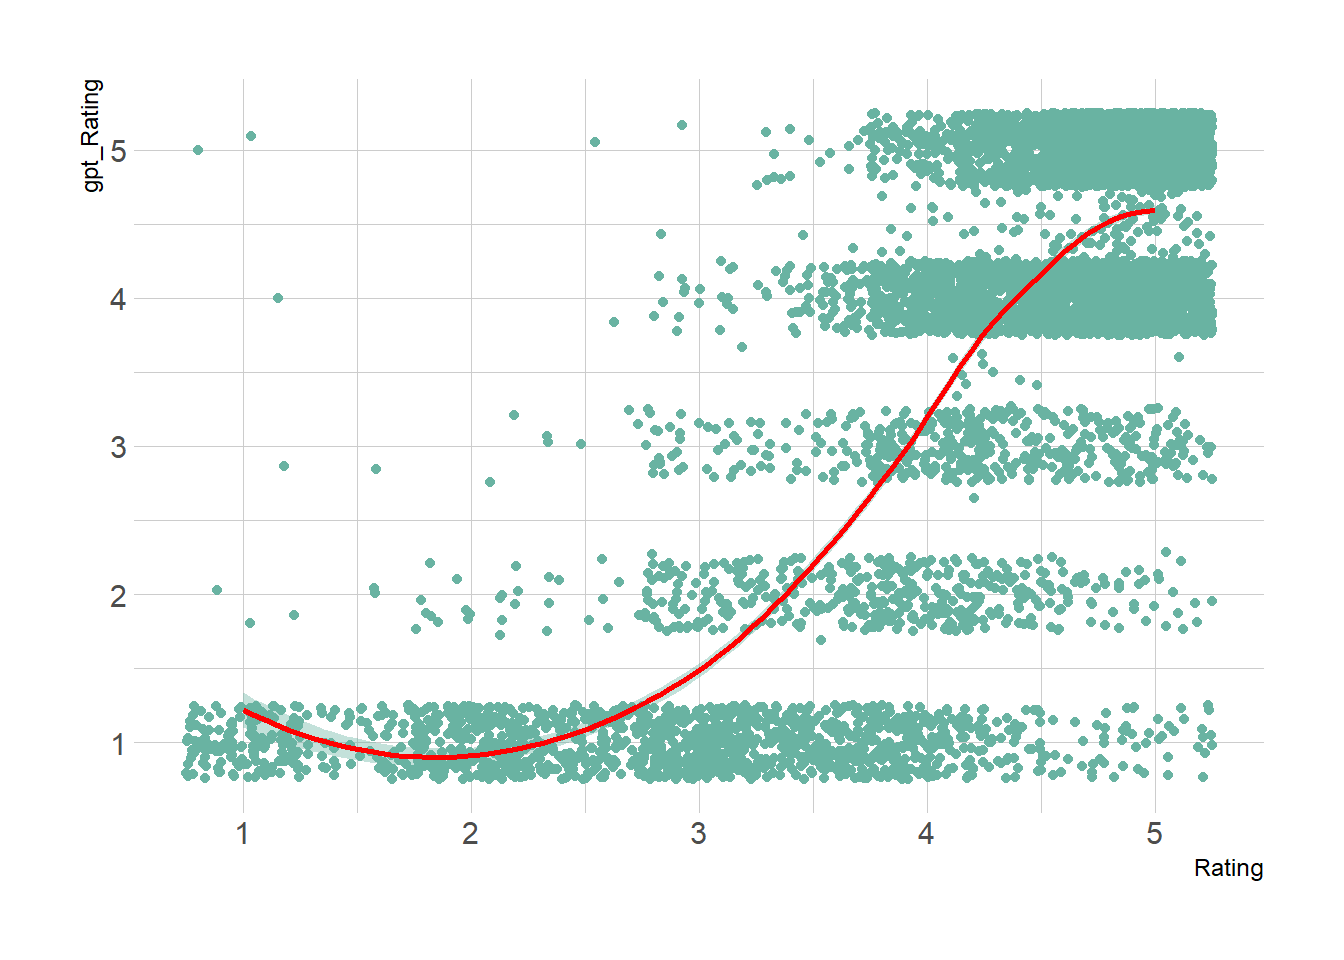
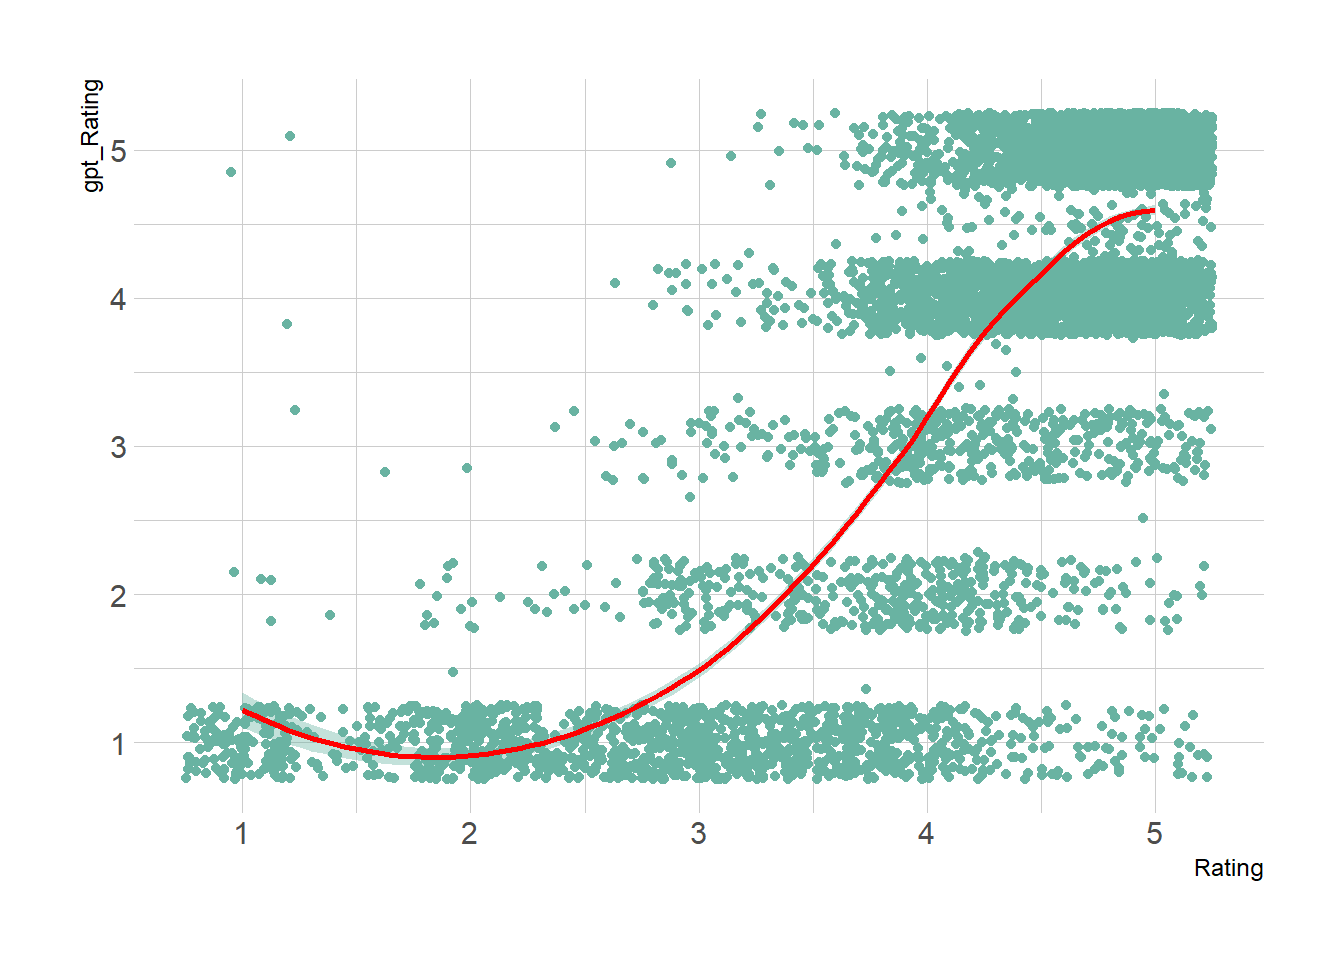
updates

diff --git a/docs/llm-assisted-text-analysis.html b/docs/llm-assisted-text-analysis.html
@@ -312,29 +312,29 @@ $ country       &lt;chr&gt; "American", "American", "American", "American", "Ame
 </thead>
 <tbody>
 <tr class="odd">
-<td style="text-align: left;">volvo</td>
-<td style="text-align: left;">Great family car</td>
-<td style="text-align: left;">Excellent family car with high reliability and decent curb appeal. I've had no major mechanical problems over a three year period, and the car still drives like new. Engine performance, ride and handling feel like new.</td>
-</tr>
-<tr class="even">
-<td style="text-align: left;">gmc</td>
-<td style="text-align: left;">Diamond in the rough</td>
-<td style="text-align: left;">Overall, the Jimmy is a good SUV. The main problem encountered with the car was front end repairs and numerous brake replacements. Good performance and average comfort. For the money not a bad buy.</td>
-</tr>
-<tr class="odd">
-<td style="text-align: left;">acura</td>
-<td style="text-align: left;">Sporty yet practical</td>
-<td style="text-align: left;">I love my 3.2TL. I am a Stay-at-home Mom with 1 child and feel like I am not compromising the Sport feel with too much practicality. Very peppy drive. Great Luxury vehicle for the $$.</td>
-</tr>
-<tr class="even">
-<td style="text-align: left;">acura</td>
-<td style="text-align: left;">A very good car</td>
-<td style="text-align: left;">This is a very good car. Good looking and reliable. I have this car for almost 5 years now and not a major problem occurs. It is not a performance car but it can run pretty quick. The handling is great. For everyday use, this is a perfect car.</td>
-</tr>
-<tr class="odd">
 <td style="text-align: left;">dodge</td>
-<td style="text-align: left;">Love that turbo-diesel</td>
-<td style="text-align: left;">Power and mileage are excellent. I can tow my Bronco with a full size camper in the bed, far more cheaply and much faster; than I can drive the Bronco by itself</td>
+<td style="text-align: left;">2003 Dakota SXT</td>
+<td style="text-align: left;">Great truck. Had over three years with no problems in 28,900 miles. Original brakes and tires. Decent gas mileage for a 2WD, approximately 19-21 MPG on the highway.</td>
+</tr>
+<tr class="even">
+<td style="text-align: left;">audi</td>
+<td style="text-align: left;">Audi Rocks</td>
+<td style="text-align: left;">Replaced my 2008 Honda Pilot. I had leased A4 in 2005 and was very happy with Audi as a brand. Great car/SUV. Love it, of course smaller than Honda Pilot but works for me.</td>
+</tr>
+<tr class="odd">
+<td style="text-align: left;">infiniti</td>
+<td style="text-align: left;">Best SUV Out There</td>
+<td style="text-align: left;">The title speaks for itself. I bought the QX56 for my lead-footed wife and she loves it so much she may just keep it (unlike the other 3 SUV's in the last 5 years). She has not one single complaint. Maybe I'll surprise her and buy her a new one if there is a re- design.</td>
+</tr>
+<tr class="even">
+<td style="text-align: left;">kia</td>
+<td style="text-align: left;">great</td>
+<td style="text-align: left;">bought new in 2002, even though i try not to buy the first model year for any vehicle.my mileage has been a consistent 28 mpg hwy with 6 large people and luggage.plenty of power.</td>
+</tr>
+<tr class="odd">
+<td style="text-align: left;">volkswagen</td>
+<td style="text-align: left;">Lemon</td>
+<td style="text-align: left;">Have had numerous problems for one year - delivered without enough transmission fluid - not alligned - resulted in requireing new tires - cruise control worked intermittantly - ABS light on - Engine Check Light on - cannot trust safety driving - stopped when engine check light on</td>
 </tr>
 </tbody>
 </table>
@@ -360,10 +360,11 @@ Note: for first time, need to add your open_api_ai key as an environmental varia
 <span id="cb4-8"><a href="#cb4-8" aria-hidden="true" tabindex="-1"></a><span class="co"># confirm chat is connected to API</span></span>
 <span id="cb4-9"><a href="#cb4-9" aria-hidden="true" tabindex="-1"></a>chat<span class="sc">$</span><span class="fu">chat</span>(<span class="st">"Is R a functional programming language?"</span>)</span></code><button title="Copy to Clipboard" class="code-copy-button"><i class="bi"></i></button></pre></div>
 <div class="cell-output cell-output-stdout">
-<pre><code>Yes, R supports functional programming. It allows functions to be treated as 
-first-class objects, enabling features like higher-order functions, closures, 
-and anonymous functions. However, R also supports procedural and 
-object-oriented programming styles.</code></pre>
+<pre><code>Yes, R supports functional programming concepts. It allows functions to be 
+first-class objects, enabling functions to be passed as arguments, returned 
+from other functions, and assigned to variables. However, R is also a 
+multi-paradigm language, incorporating procedural and object-oriented 
+programming styles.</code></pre>
 </div>
 </div>
 <p>Define the prompts that will be used to code the data:</p>
@@ -393,7 +394,7 @@ object-oriented programming styles.</code></pre>
 <span id="cb6-23"><a href="#cb6-23" aria-hidden="true" tabindex="-1"></a></span>
 <span id="cb6-24"><a href="#cb6-24" aria-hidden="true" tabindex="-1"></a>text</span></code><button title="Copy to Clipboard" class="code-copy-button"><i class="bi"></i></button></pre></div>
 <div class="cell-output cell-output-stdout">
-<pre><code>[1] "I am the original owner of this car. It now has about 155,000 miles. Had to replace the head gasket at 89,000 miles. Was not a happy camper, but its been running OK since then. A few quirky problems, mostly with sensors and brakes, but once they are replaced, it seems fine. I will probably be replacing it within a year, and I don't think I will buy another Subaru, but I can't honestly think of a more affordable AWD vehicle with as much room as it has. Hopefully Subaru has improved its quality a bit since 98."</code></pre>
+<pre><code>[1] "Best sedan i'ver ever owned. Powerful, \rcomfortable and reliable. Loaded with \rfeatures. Easy to drive. Classic \rstyling. No mechanical problems. \rSurprisingly good fuel economy."</code></pre>
 </div>
 <div class="sourceCode cell-code" id="cb8"><pre class="sourceCode r code-with-copy"><code class="sourceCode r"><span id="cb8-1"><a href="#cb8-1" aria-hidden="true" tabindex="-1"></a>chat <span class="ot">&lt;-</span> <span class="fu">chat_openai</span>()</span></code><button title="Copy to Clipboard" class="code-copy-button"><i class="bi"></i></button></pre></div>
 <div class="cell-output cell-output-stderr">
@@ -403,15 +404,15 @@ object-oriented programming styles.</code></pre>
 <span id="cb10-2"><a href="#cb10-2" aria-hidden="true" tabindex="-1"></a><span class="fu">str</span>(coded.review)</span></code><button title="Copy to Clipboard" class="code-copy-button"><i class="bi"></i></button></pre></div>
 <div class="cell-output cell-output-stdout">
 <pre><code>List of 9
- $ sentiment      : chr "neutral"
- $ gpt_Rating     : int 3
+ $ sentiment      : chr "positive"
+ $ gpt_Rating     : int 5
  $ reliability    : int 1
- $ utility        : int 0
- $ driving        : int 0
+ $ utility        : int 1
+ $ driving        : int 1
  $ comfort        : int 1
  $ interior       : int 1
- $ fuel_efficiency: int 0
- $ technology     : int 0</code></pre>
+ $ fuel_efficiency: int 1
+ $ technology     : int 1</code></pre>
 </div>
 </div>
 <p>The next step would be to loop through the entire corpus, coding each observation one-by-one. However, with over <span class="math inline">\(206,000\)</span> observations and about 2 seconds for each query to the API, this code would take about 5 days to run. For purposes of this demonstration, we’ll use a sample of <span class="math inline">\(7,000\)</span> randomly sampled observations:</p>
